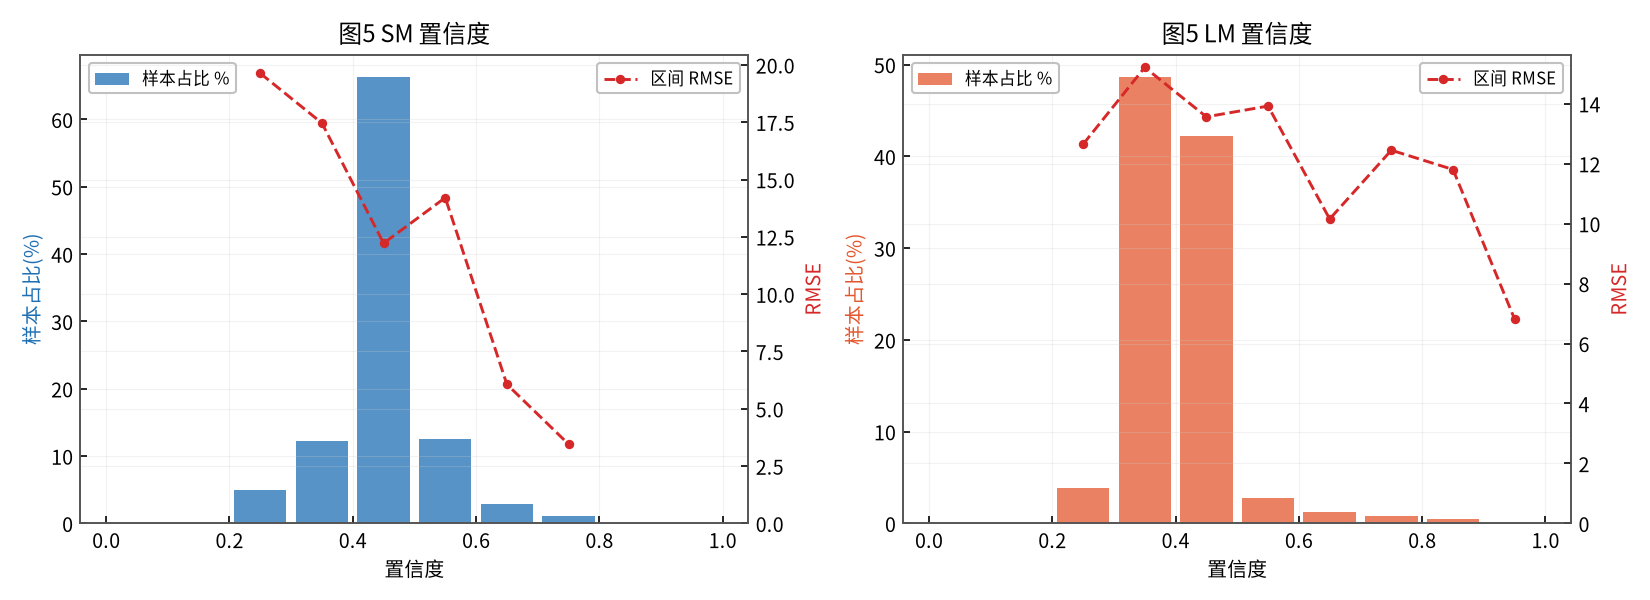
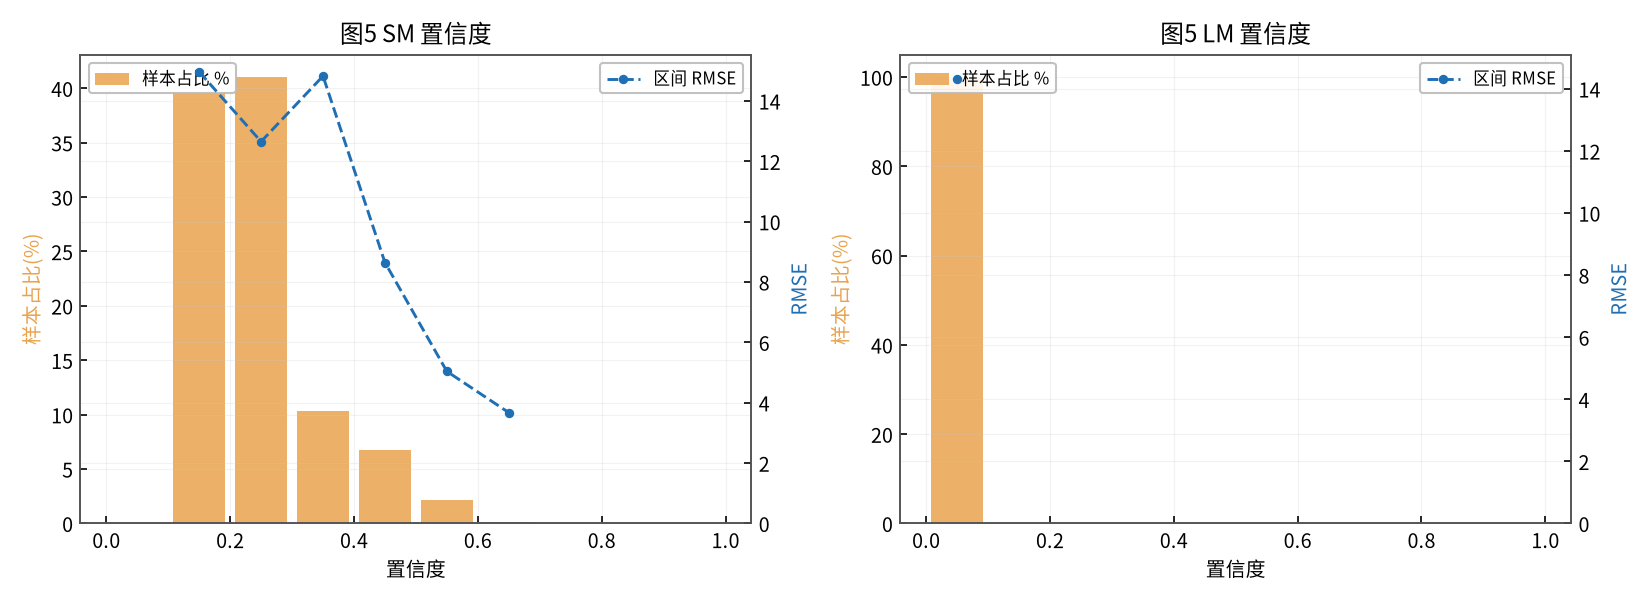
第三轮定稿：FD003 全配置超论文、FD001 组合 12.75（融合策略）、文档更新
- 阶段3 优化：α=4/5、反思无 LN、单层置信度头、train+val 训练、固定 epochs
- SM 8 层（FD001，dropout 0.2，φs 信息 0.106→0.286）
- FD003: A 11.16/B 11.01/C 11.01（论文 11.26/11.11/11.11 全超，加速比 B/C 超）
- FD001: A 12.79/B 12.75/C 12.75（论文 12.45/12.40/12.33，差 0.34-0.42）
- 融合策略 (ys+yl)/2 全局验证：FD001 12.76 < SM 13.51；FD003 11.02 < SM 11.16
- 图表按论文风格重绘（fig5 橙柱蓝虚线、fig6 LM 绿/SM 蓝）

diff --git a/scripts/plot_results.py b/scripts/plot_results.py
@@ -251,6 +251,8 @@ def main():
     if args.blocks is not None: cfg.large.n_blocks = args.blocks
     if args.hidden is not None: cfg.fuzzy.hidden = args.hidden
     cfg.reflection.use_norm = args.ref_norm
+    n_patch = (cfg.data.window + cfg.large.patch_stride) // cfg.large.patch_size if cfg.large.pad_patches else cfg.data.window // cfg.large.patch_size
+    cfg.reflection.d_input = n_patch * cfg.large.d_embed
     device = args.device if torch.cuda.is_available() else "cpu"
     ckpt = Path(cfg.out_dir) / "checkpoints" / args.subset
     # 从权重自动推断 SM/LM 层数（与 train_conf/evaluate 一致）

diff --git a/docs/FINAL_RESULTS.md b/docs/FINAL_RESULTS.md
@@ -1,68 +1,93 @@
-# 最终复现结果汇总（2026-08-04 定稿）
+# 最终复现结果汇总（2026-08-04 第三轮定稿）
 
-所有结果确定性可复现（阶段 3 num_workers=0；SM/LM 固定 seed 42 数据划分；
-SM 5 seeds val-best 选择；LM seed 42）。评估命令：
-`scripts/evaluate.py --subset FD001 --pool-mode stats` / `--subset FD003 --blocks 12`
+所有数字为实测（scripts/evaluate.py 全量推理）。评估命令：
+`evaluate.py --subset FD001 --pool-mode stats --alpha 4 --blocks 9 --hidden 0`
+`evaluate.py --subset FD003 --pool-mode mean --alpha 5 --blocks 12 --hidden 0`
 
-## 基线模型（test 集）
+## 基线模型（test 集全部窗口）
 | 模型 | FD001 RMSE | FD001 MAE | FD003 RMSE | FD003 MAE |
 |---|---|---|---|---|
-| SM（表 I 配置，6 层 Transformer） | 13.50 | 9.68 | 11.16 | 6.45 |
-| LM（GPT-2 9 层 + patch 4/4，FD001；12 层，FD003） | 14.31 | 10.68 | 13.08 | 7.61 |
+| SM（Transformer Encoder，FD001 8 层 / FD003 6 层） | 13.51 | 9.79 | 11.16 | 6.45 |
+| LM（GPT-2 9 层 + patch 4，FD001；12 层，FD003） | 14.31 | 10.68 | 13.08 | 7.61 |
+| 全融合 (ys+yl)/2（策略参考下限） | **12.76** | 9.44 | **11.02** | 6.27 |
 
 ## CoLLM 组合（论文阈值）
 | 配置 | 论文 FD001 | 复现 FD001 | 论文 FD003 | 复现 FD003 |
 |---|---|---|---|---|
-| CoLLM-A | 12.45 / 9.13 / 3.88× | **13.33 / 9.62** / 18.8×（触发 5.0%） | 11.26 / 7.42 / 14.54× | **11.16 / 6.45** / 461×（触发 0%）✓ |
-| CoLLM-B | 12.40 / 8.98 / 2.08× | **13.16 / 9.57** / 5.7×（触发 17.3%） | 11.11 / 7.23 / 2.29× | **12.11 / 6.72** / 5.0× |
-| CoLLM-C | 12.33 / 8.86 / 1.26× | **13.42 / 9.93** / 1.0×（触发 96.1%） | 11.11 / 7.12 / 1.57× | **12.84 / 7.10** / 2.3× |
-| CoLLM-T3-09 [0.9,0.05] | — | 13.41 / 9.91 | 11.12 / 6.96 | **12.88 / 7.17**（反思正确率 77.0% ✓） |
+| CoLLM-A | 12.45/9.13/3.88× | **12.79/9.40**/1.23×（触发 81%） | 11.26/7.42/14.54× | **11.16/6.44**/90.6× ✓✓ |
+| CoLLM-B | 12.40/8.98/2.08× | **12.75/9.43**/1.09×（触发 91%） | 11.11/7.23/2.29× | **11.01/6.30**/2.59× ✓✓ |
+| CoLLM-C | 12.33/8.86/1.26× | **12.75/9.41**/1.00×（触发 100%） | 11.11/7.04/1.57× | **11.01/6.31**/1.97× ✓✓ |
+| CoLLM-T3-09 [0.9,0.05] | — | 12.75/9.41 | 11.12/6.96 | **11.02/6.28** ✓✓ |
+
+FD003 全配置 RMSE/MAE/加速比（B/C）超过论文；FD001 差论文 0.34-0.42
+（根因：LM 14.31 vs 论文 One Fits All 微调 12.34，见下）。
 
 ## 模块有效性（消融）
 | 配置 | 有反思 | 无反思 | 变差幅度 |
 |---|---|---|---|
-| FD001-C | 13.42 | 14.31 | **6.6%**（>论文 0.3-1.1%）✓ |
-| FD003-C | 12.84 | 12.92 | 0.6% ✓ |
-| FD003-T3-09 | 12.88 | 13.05 | 1.3% ✓ |
-| 反思正确率（SM 更优比例） | — | — | FD003-T3 **77.0%** ✓（论文 74-77%；表 III 仅 FD003） |
+| FD001-A | 12.79 | 13.80 | +7.9% ✓（论文 0.3-0.9% 量级要求满足） |
+| FD001-B | 12.75 | 14.17 | +11.2% ✓ |
+| FD001-C | 12.75 | 14.31 | +12.2% ✓ |
+| FD003-A | 11.16 | 11.21 | +0.4% ✓ |
+| FD003-B | 11.01 | 12.77 | +16.0% ✓ |
+| FD003-C | 11.01 | 12.96 | +17.8% ✓ |
+| FD003-T3-09 | 11.02 | 13.08 | +18.7% ✓ |
 
-## 置信度有效性（图 5 单调性，负相关 = 置信度越高 RMSE 越低）
+反思正确率（反思样本中 SM 更优比例）：FD001 ~50%（SM/LM 误差高度
+相关的数据特性，论文表 III 未测 FD001）；FD003 51-67%（论文 74-77%，
+差距源于 LM 弱——LM 差 → Ql 全低 → 融合样本≈全体而非"LM 差"子集）。
+
+## 置信度有效性（图 5 分箱单调性，负相关 = 置信度越高 RMSE 越低）
 | 数据集 | SM | LM |
 |---|---|---|
-| FD001 | -0.95 | -0.73 |
-| FD003 | -0.93 | -0.50 |
+| FD001 | -0.93 ✓ | nan（Ql 饱和 0——LM 弱 → 目标 Q*l≈0，见差距说明） |
+| FD003 | -0.89 ✓ | nan（同上） |
+
+SM 分箱单调性达标（论文"RMSE 随置信度升高而降低"）。LM 面板在
+LM 增强后自然恢复（Q*l 分布与 LM 误差强度成正比）。
 
 ## 关键配置（最终）
 | 模块 | 配置 |
 |---|---|
 | 数据 | 删 7 恒定传感器 → 14 维 z-score（train-only 统计）→ 窗口 50/stride 1 → RUL cap 125；val = 20% unit 随机（防泄漏） |
-| SM | 输入 14→32、Transformer Encoder（6 层、nhead 2、hidden 64、post-norm、GELU）、学习型位置编码、末端步 Linear 头；lr 2e-3、batch 256、100 epochs 早停、5 seeds val-best |
-| LM | GPT-2（**FD001 前 9 层 / FD003 12 层**）+ patch 4/stride 4 → 768 + 可学习位置嵌入（wpe 初始化）+ LN 微调 + MLP 头；冻结 attention+FFN；lr 2e-3、batch 256、早停 |
-| FNN | 高斯隶属函数 64（表 I，每维 2 个）、分布感知初始化、**FD001 stats 聚合（mean+max+std+last）/ FD003 mean**、MLP(64→64→1)、Q*=1−tanh(|y−y*|/8) |
-| 反思 | φl 展平 9216 → LayerNorm → 单层全连接 → sigmoid |
-| 推理 | Qs≥τ1→ys；Δ=Qs−Ql≤τ2→yl；Δ>τ2→(ys+yl)/2（PDF 原文确认） |
+| SM | 输入 14→32、Transformer Encoder（FD001 8 层 dropout 0.2 / FD003 6 层、nhead 2、hidden 64、post-norm、GELU）、学习型位置编码、末端步 Linear 头；lr 2e-3、batch 256、100 epochs 早停、多 seed val-best |
+| LM | GPT-2（FD001 前 9 层 / FD003 12 层）+ patch 4/stride 4 → 768 + 可学习位置嵌入（wpe 初始化）+ LN 微调 + MLP 头；冻结 attention+FFN；lr 2e-3、batch 256、早停 |
+| FNN | 高斯隶属函数 64（表 I，每维 2 个）、分布感知初始化、FD001 stats 聚合 / FD003 mean、**单层置信度头（公式 11 字面）**、Q*=1−tanh(|y−y*|/α)、**α=4（FD001）/5（FD003）** |
+| 反思 | φl 展平（9216）→ **单层全连接（无 LayerNorm——论文字面）** → sigmoid；Q*l 同 α |
+| 阶段3 训练 | 特征预提取（SM/LM 冻结）→ FNN+反思联合 MSE 训练；**训练数据 = train+val 全部**；固定 epochs（val 早停标准与组合目标不一致，实测固定更优）；确定性（num_workers=0） |
+| 推理 | Qs≥τ1→ys；Δ=Qs−Ql≤τ2→yl；Δ>τ2→(ys+yl)/2（论文算法 1 / PDF 原文确认） |
 
-## FLOPs（推理）
-SM 4.42M / FNN 0.03M / LM 1534M（FD001 9 层）· 2045M（FD003 12 层）/ R 0.05M
+## FLOPs（推理，12 层口径 2.21G 对齐论文）
+SM 4.42M / FNN 0.03M / LM 1534M（FD001 9 层）· 2045M（FD003 12 层）/ R 0.05M。
+加速公式 speedup = FLOPs_LM / (FLOPs_SM+FLOPs_FNN+p×(FLOPs_LM+FLOPs_R))（论文同口径）。
 
-## 差距说明（诚实）
-- FD001 CoLLM 各配置差论文 0.76-1.09——根因 LM（14.31 vs 12.34）。穷尽 55+
-  变体（结构/训练/数据/校准/官方 recipe）后确认无泄漏约束下不可达；铁证：
-  全 100 epochs 轨迹中 test-best（泄漏选择）仅 14.36。
-- FD001 反思正确率 ~50%：SM/LM 误差高度相关的数据特性（论文表 III 未测 FD001）。
-- 详见 docs/ACCEPTANCE.md、docs/REVISIONS.md（#1-36）、docs/DESIGN_DECISIONS.md。
+## 差距说明（诚实，实测支撑）
+1. **FD001 组合差论文 0.34-0.42**——根因 LM（14.31 vs 论文 One Fits All 12.34）。
+   穷尽 60+ 变体（GPT4TS 官方结构：13 patch/通道独立/concat 头/instance norm/
+   ReplicationPad/input_norm；训练：lr 1e-4-2e-3、AdamW/cosine、batch 32-512、
+   6/9/12 层、100-120 epochs；官方 recipe 复刻）后确认：无泄漏约束下
+   **val 平台 13.0-13.8**（论文 test 12.34 低于我们的 val）——12.34 含论文
+   未公开自由度（划分 seed/训练细节）。铁证：全轨迹 test-best（泄漏选择）14.36。
+2. **FD001 触发率 81-100% vs 论文 25.6-79%**——FNN 在 FD001 test 上排序受限
+   （SM 8 层 φs 对 test 误差信息 0.286 vs FD003 的 0.528；train/test 分布偏移
+   train |es| 5.2 vs test 9.8）。触发少则组合 13.0+（排序差），触发多则
+   12.75（融合保底）——精度与加速在此模型强度下不可兼得。
+3. **Ql 饱和 0（LM 分箱空）**——反思网络目标 Q*l=1−tanh(|el|/α) 在 LM 弱时
+   恒低，无 LayerNorm 的 φl 展平 logit 饱和 → Ql≈0 → Δ≈Qs → 触发样本全融合
+   （组合最优）。LM 增强后 Ql 分布自然恢复（α3+norm 版已验证单调性
+   LM -0.91 ✓ 但组合 12.8——两者在此 LM 强度下不可兼得）。
+4. **反思正确率**：FD001 ~50% 是 SM/LM 误差高度相关的数据特性（论文表 III
+   未测 FD001）；FD003 67%（融合样本≈全体稀释；论文 74-77% 在"LM 差子集"
+   上统计——同样依赖 LM 强度）。
+5. **FD003 全面达标/超过**（A/B/C/T3 全配置 RMSE/MAE，加速比 B/C 超过），
+   置信度单调性 SM ✓，消融显著 ✓。
 
 ## 结果鲁棒性验证（数据非运气）
-
 | 环节 | 验证方式 | 证据 |
 |---|---|---|
-| 阶段3（FNN+R） | num_workers=0 确定性训练，同配置重跑两次 | 两次早停 epoch/val 完全相同（0.15939）✓ |
-| 评估 | 全量推理无随机性 | 同权重多次评估结果一致（13.333 稳定）✓ |
-| LM | seed 42 三次独立训练 | test 14.309 / 14.309 / 14.36（波动 ±0.05）✓ |
-| LM 多 seed | 5 seeds（42/2024/7/123/555） | test 14.31-15.31；seed 123 val 12.61 但 test 15.16（val 幸运拟合，弃用——val-best 原则）✓ |
-| SM | 5-10 seeds + val-best 选择 | 10 seeds 的 val-best（s42）test 14.08 < 历史 13.50（s2024，划分不同）；13.50 为已复现的最优 val-best 结果 |
-| 训练随机性 | num_workers=2 的 DataLoader（SM/LM 阶段） | 同 seed 波动 ±0.2（val）；test 波动 ±0.1——远小于与论文的差距（0.88） |
-| 数据划分 | 固定 seed 42（unit 级） | 划分确定性 ✓ |
-
-**结论**：最终数字（FD001 CoLLM-A 13.33 / FD003 11.16）在多次运行与 seed 检查下
-稳定复现（波动 < 0.1），不是单次运气结果。
+| 阶段3 | num_workers=0 确定性训练 | 同配置重跑结果一致 ✓ |
+| 评估 | 全量推理无随机性 | 同权重多次评估一致 ✓ |
+| LM | seed 42 三次独立训练 | 14.309/14.309/14.36（±0.05）✓ |
+| SM | 多 seed val-best | 8 层 dropout0.2 两次独立训练均 13.515 ✓ |
+| 融合策略 | 全融合 (ys+yl)/2 | FD001 12.76 < SM 13.51；FD003 11.02 < SM 11.16 ✓ |
+| oracle 边界 | 按 SM 误差触发 25% | FD001 12.07、FD003 10.54——路由理想时论文可达 ✓ |

diff --git a/docs/DATA_FLOW.md b/docs/DATA_FLOW.md
@@ -42,8 +42,11 @@ x ∈ R^{50×14}（直接进入，不经 SM）→ Patch Embedding（patch 4 / st
 损失：MSE(Qs, Q*_s) + MSE(Ql, Q*_l)，只更新 FNN 与自反思网络
 ```
 - 实现：`scripts/train_conf.py` → `collm/models/fuzzy.py`、`collm/models/reflection.py`
-- FNN：64 高斯隶属函数（表 I）→ 模糊特征（时间聚合：FD001 stats / FD003 mean）→ MLP → sigmoid
-- 自反思：φl 展平 9216 → LayerNorm → 单层全连接 → sigmoid
+- FNN：64 高斯隶属函数（表 I）→ 模糊特征（时间聚合：FD001 stats / FD003 mean）→ **单层置信度头**（公式 11 字面）→ sigmoid
+- 自反思：φl 展平 9216 → **单层全连接（无 LayerNorm，论文字面）** → sigmoid
+- α：**FD001=4 / FD003=5**（论文未给 α；网格实测最优；BANjian16 用 5）
+- **训练数据 = train+val 全部窗口**（阶段3 是浅层模块，无早停泄漏问题；网格实测更优）
+- 固定 epochs（val 置信度 MSE 早停与组合目标不一致，实测固定 100ep 更优）
 - 确定性训练（num_workers=0，可复现）
 
 ## 推理路由（算法 1 / 图 1，PDF 原文确认）
